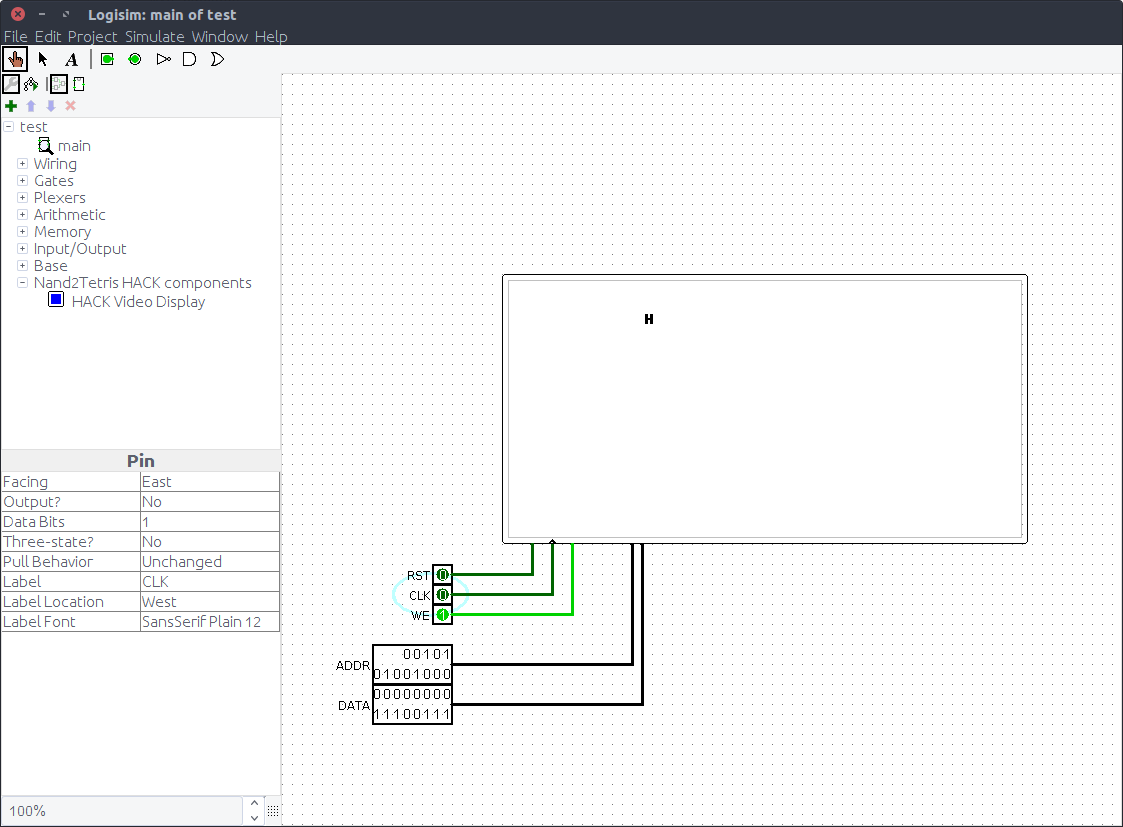
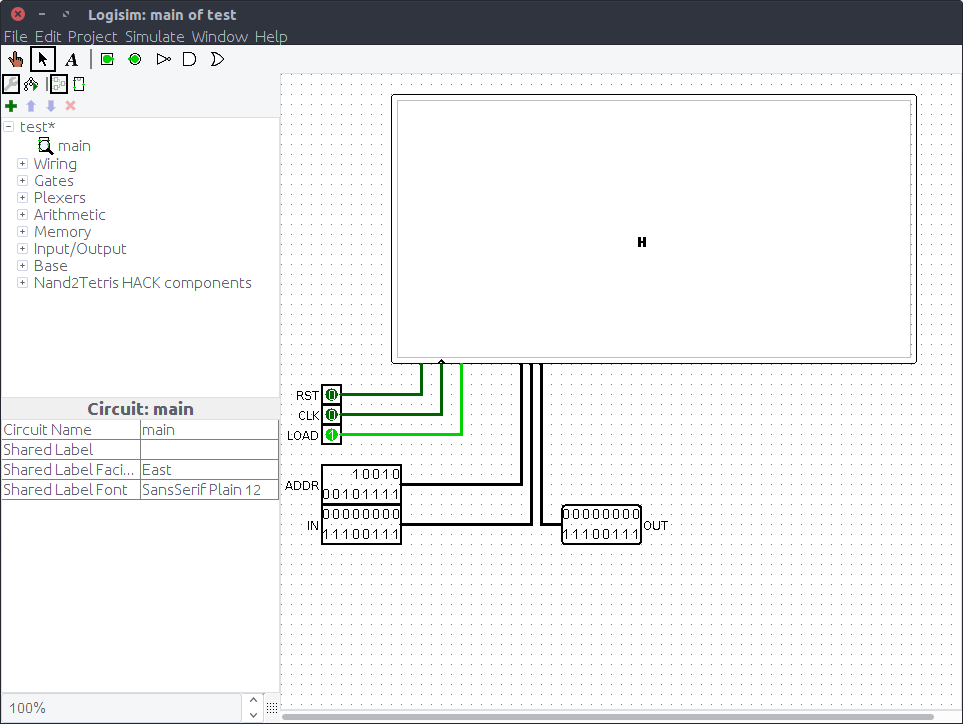
Directly working with the bitmap
Using the bitmap's array instead of accessing it through the getRGB API.

Updated the documentation.

diff --git a/src/main/java/com/github/itoshkov/logisimn2t/HackDisplay.java b/src/main/java/com/github/itoshkov/logisimn2t/HackDisplay.java
@@ -7,11 +7,13 @@ import com.cburch.logisim.data.*;
 
 import java.awt.*;
 import java.awt.image.BufferedImage;
+import java.awt.image.DataBufferByte;
 import java.util.Collections;
 import java.util.EnumSet;
 import java.util.Set;
 
 import static com.cburch.logisim.data.BitWidth.ONE;
+import static com.github.itoshkov.logisimn2t.BitUtils.invertAndMirror;
 
 public class HackDisplay extends ManagedComponent {
     static final HackDisplayFactory FACTORY = new HackDisplayFactory();
@@ -95,33 +97,27 @@ public class HackDisplay extends ManagedComponent {
 
         final int addr = val(circuitState, Pin.ADDR).toIntValue();
         final int data = val(circuitState, Pin.DATA_IN).toIntValue();
-        final int x = addr % 32;
-        final int y = addr / 32;
-        if (state.tick(val(circuitState, Pin.CLK)) && val(circuitState, Pin.WE) == Value.TRUE)
-            for (int i = 0; i < 16; i++) {
-                final int color = ((data >> i) & 1) - 1;
-                state.img.setRGB(16 * x + i, y, color);
-            }
+        final byte[] pixels = ((DataBufferByte) state.img.getRaster().getDataBuffer()).getData();
+        final int idx = addr * 2;
+        if (state.tick(val(circuitState, Pin.CLK)) && val(circuitState, Pin.WE) == Value.TRUE) {
+            final int inv = ~Integer.reverse(data);
+            pixels[idx] = (byte) (inv >>> 24);
+            pixels[idx + 1] = (byte) (inv >>> 16);
+        }
 
         if (val(circuitState, Pin.RST) == Value.TRUE)
             state.reset();
 
-        final Value value = getPixels(state.img, x, y);
+        final Value value = getPixels(pixels, idx);
         circuitState.setValue(getEndLocation(Pin.DATA_OUT), value, this, 0);
     }
 
-    private Value getPixels(BufferedImage img, int x, int y) {
-        if (x < 0 || 16 * x + 15 >= img.getTileWidth() || y < 0 || y >= img.getHeight())
+    private Value getPixels(byte[] pixels, int idx) {
+        if (idx < 0 || idx >= pixels.length)
             return Value.createError(BIT_WIDTH_16);
 
-        int out = 0;
-        for (int i = 0; i < 16; i++) {
-            final int rgb = img.getRGB(16 * x + 15 - i, y);
-            final int bit = ~rgb & 1;
-            out = (out << 1) | bit;
-        }
-
-        return Value.createKnown(BIT_WIDTH_16, out);
+        final int inv = invertAndMirror(pixels[idx], pixels[idx + 1]);
+        return Value.createKnown(BIT_WIDTH_16, inv);
     }
 
     private Value val(CircuitState s, Pin pin) {

diff --git a/src/test/java/com/github/itoshkov/logisimn2t/BitUtilsTest.java b/src/test/java/com/github/itoshkov/logisimn2t/BitUtilsTest.java
@@ -1,0 +1,22 @@
+package com.github.itoshkov.logisimn2t;
+
+import org.junit.Test;
+
+import static org.junit.Assert.assertEquals;
+
+public class BitUtilsTest {
+    @Test
+    public void testInvertAndMirror() {
+        for (int i = 0; i <= 0xffff; i++) {
+            final int im = invertAndMirror(i);
+            final int im2 = invertAndMirror(im);
+            assertEquals(i, im2);
+        }
+    }
+
+    private int invertAndMirror(int i) {
+        byte b0 = (byte) ((i >>> 8) & 0xff);
+        byte b1 = (byte) (i & 0xff);
+        return BitUtils.invertAndMirror(b0, b1);
+    }
+}

diff --git a/src/main/java/com/github/itoshkov/logisimn2t/BitUtils.java b/src/main/java/com/github/itoshkov/logisimn2t/BitUtils.java
@@ -1,0 +1,10 @@
+package com.github.itoshkov.logisimn2t;
+
+public class BitUtils {
+    public static int invertAndMirror(byte p0, byte p1) {
+        final int s0 = (p0 << 24) & 0xff000000;
+        final int s1 = (p1 << 16) & 0x00ff0000;
+        final int out = s0 | s1;
+        return Integer.reverse(~out) & 0xffff;
+    }
+}

diff --git a/README.md b/README.md
@@ -28,17 +28,16 @@ The display follows the specification from nand2tetris. It is a 512 by 256 bitma
 
 Here are the pins from left to right:
 
-* `RST` - Resets the display. Redraws it all in white. Works regardless of the state of `CLK` and `WE`.
+* `RST` - Resets the display. Redraws it all in white. Works regardless of the state of `CLK` and `LOAD`.
 * `CLK` - The clock. The display is updated only when the clock changes state from 0 to 1.
-* `WE` - Idicates whether to update display (1) or not (0).
+* `LOAD` - Idicates whether to update display (1) or not (0).
 * `ADDR` - 13-bit address of the 16-bit segment to be updated. Address 0 is the top-left segment, 1 is next to it and so on.
-* `DATA` - 16-bit data. The bits are copied over the specified segment. Bit 1 means forground color (black), while 0 means background (white).
+* `IN` - 16-bit data in. The bits are copied over the specified segment. Bit 1 means foreground color (black), while 0 means background (white).
+* `OUT` - 16-bit data out. The data that is currently stored (and displayed) in the specified segment.
 
-If the `WE` is 1 when the `CLK` goes up, all the 16 pixels in the specified segment are updated at once.
+If the `LOAD` is 1 when the `CLK` goes up, all the 16 pixels in the specified segment are updated at once.
 
 `RST` works with priority. If it's 1, the display is cleared (all white) regardless of the state of the other pins.
-
-Please note, that the display does *not* support reading the data!
 
 Here is how it looks: ![HACK display](https://github.com/itoshkov/logisimn2t/blob/master/HACK-display.png "HACK display")
 
